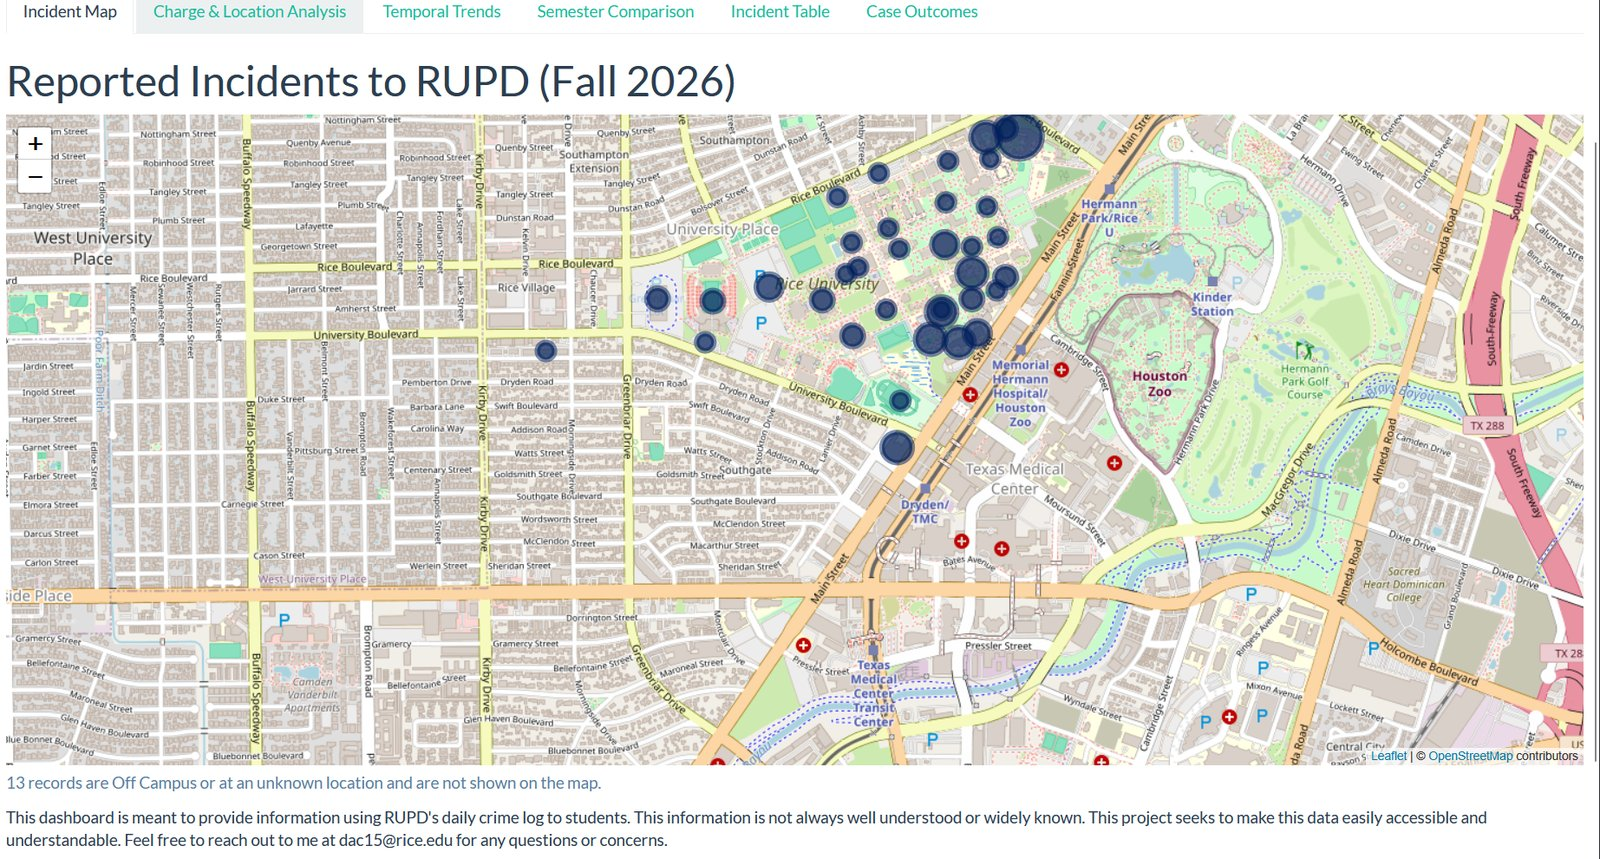
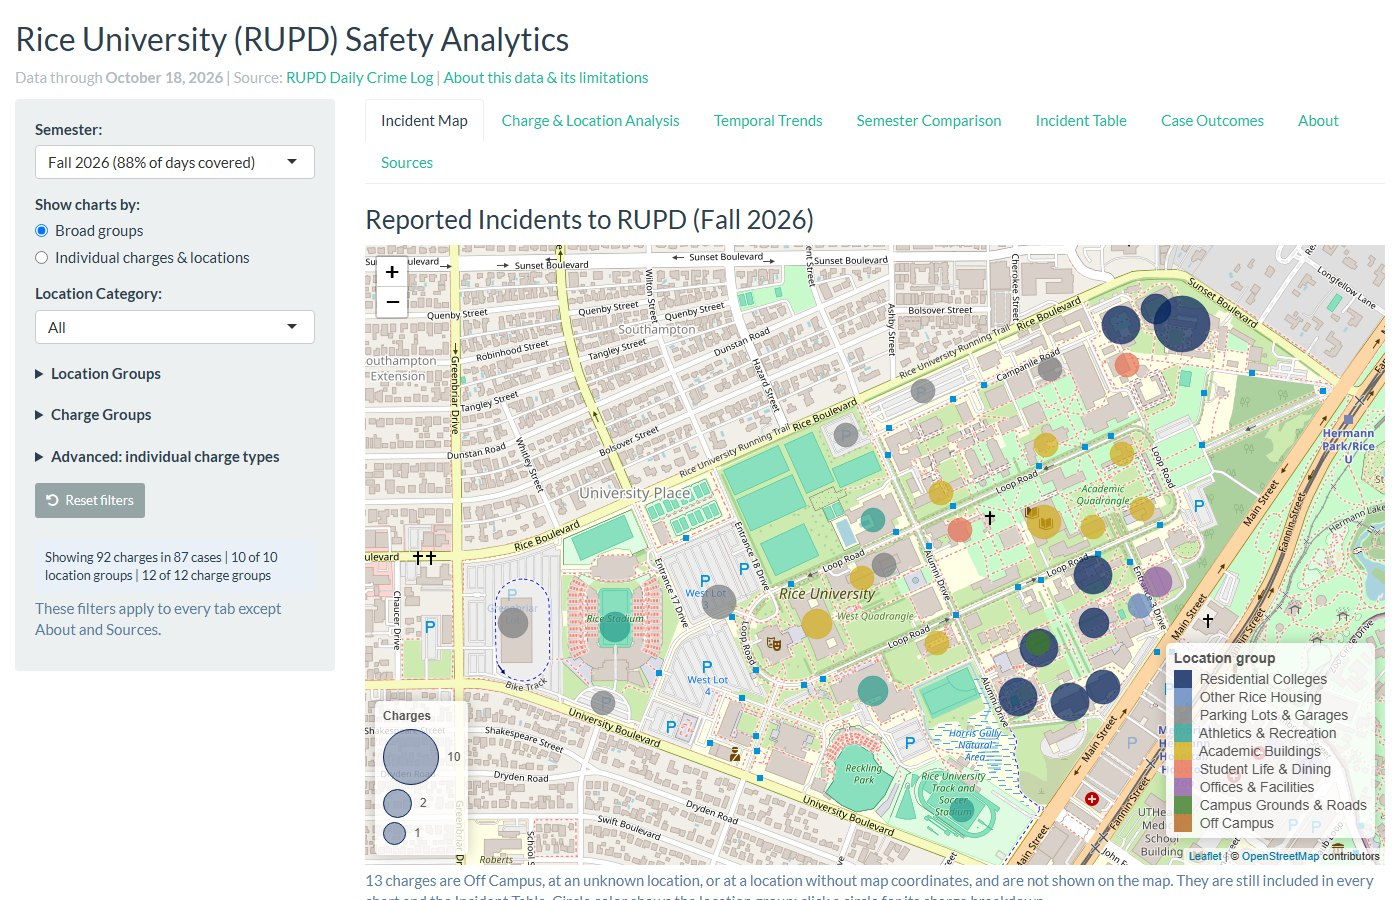
Fix review issues and make RUPD embed click-to-load
- Remove links to the now-private Spurs² team repo
- Use 1956-2025 consistently on the MVP study and fix its http link
- Add Stan, PyTorch, scikit-learn, Pydantic and Bayesian hierarchical
  models to Skills
- Give every project page a "Projects" back link; add section links to
  the MVP page
- Load the RUPD dashboard on click like the CFB page, with a shared
  embed.js and a fresh screenshot of the current app
- Update the Orientation Week line to three summers

diff --git a/nba-mvp.html b/nba-mvp.html
@@ -22,9 +22,10 @@
         <div class="main-container nav-inner">
             <span class="site-title">NBA MVP Synthesis</span>
             <ul class="nav-links">
-                <li><a href="index.html">&larr; Portfolio</a></li>
-                <li><a href="projects.html">Projects</a></li>
-                <li><a href="index.html#contact">Contact</a></li>
+                <li><a href="projects.html">&larr; Projects</a></li>
+                <li><a href="#context">Context</a></li>
+                <li><a href="#synthesis">Modeling</a></li>
+                <li><a href="#formula">Conclusion</a></li>
             </ul>
         </div>
     </nav>
@@ -50,7 +51,7 @@
                 </p>
         </section>
 
-        <header class="stats-divider">
+        <header class="stats-divider" id="context">
             <div class="main-container">
                 <h3>Historical Context & The Evolution of Greatness</h3>
             </div>
@@ -63,7 +64,7 @@
 
             <div class="viz">
                 <img loading="lazy" decoding="async" src="docs/assets/gapmvp.png" alt="MVP Voting Shares Against Awards Won">
-                <p class="caption">Career MVP Award Shares (Gray) vs. Actual MVPs Won (Gold) | Data: 1955-2025</p>
+                <p class="caption">Career MVP Award Shares (Gray) vs. Actual MVPs Won (Gold) | Data: 1956-2025</p>
             </div>
 
             <div class="text-explanation">
@@ -107,7 +108,7 @@
             </div>
         </section>
 
-        <header class="stats-divider">
+        <header class="stats-divider" id="synthesis">
             <div class="main-container">
                 <h3>The Synthesis: Predictive Modeling & Benchmarking</h3>
             </div>
@@ -126,7 +127,7 @@
         </header>
         
         <p>
-            This scatterplot maps all MVP Winners against the <strong>Historical MVP Baseline</strong>. The intersecting lines here represent the mean performance of every MVP winner from 1955 to 2025. 
+            This scatterplot maps all MVP Winners against the <strong>Historical MVP Baseline</strong>. The intersecting lines here represent the mean performance of every MVP winner from 1956 to 2025. 
         </p>
         <p>
             <strong>The Winner's Circle:</strong> The top-right quadrant represents players who are currently outperforming the "Average MVP" in both scoring volume and efficiency. This Elite-of-the-Elite zone is where the 2025-26 MVP is likely to emerge.
@@ -200,7 +201,7 @@
             </div>
         </section>
 
-        <header class="stats-divider">
+        <header class="stats-divider" id="formula">
     <div class="main-container">
         <h3>Final Synthesis: The 2026 MVP Formula</h3>
     </div>
@@ -246,7 +247,7 @@
             </div>
             <div class="text-explanation bio-text">
                 <p><strong>David Coronado</strong> is a Statistics and Sport Analytics student at Rice University with a special interest in sports analytics and performance optimization. </p>
-                <p>He maintains this ongoing project exploring data synthesizing and predictive modeling. You can follow <a href="http://github.com/davcrown">this study and others on his profile page</a>, or see his full <a href="index.html">portfolio</a>.</p>
+                <p>He maintains this ongoing project exploring data synthesizing and predictive modeling. You can follow <a href="https://github.com/davcrown">this study and others on his profile page</a>, or see his full <a href="index.html">portfolio</a>.</p>
             </div>
         </section>
 

diff --git a/cfb-ratings.html b/cfb-ratings.html
@@ -86,11 +86,11 @@
             <p class="embed-actions">
                 <a href="https://dacrown.shinyapps.io/cfb-bayes-ratings/" target="_blank" rel="noopener">Open full dashboard &#8599;</a>
             </p>
-            <div class="app-frame lazy-embed" id="cfb-embed">
+            <div class="app-frame lazy-embed" id="cfb-embed" data-src="https://dacrown.shinyapps.io/cfb-bayes-ratings/" data-title="CFB Bayesian Ratings dashboard">
                 <div class="embed-preview">
                     <img src="docs/assets/cfb/cfb-rankings.jpg" alt="The Rankings tab of the CFB Bayesian Ratings dashboard, with Georgia ranked first and 90% credible intervals for each team" width="1400" height="900">
                     <div class="embed-overlay">
-                        <button type="button" class="btn btn-accent embed-launch" id="cfb-launch">Launch interactive dashboard</button>
+                        <button type="button" class="btn btn-accent embed-launch">Launch interactive dashboard</button>
                         <a href="https://dacrown.shinyapps.io/cfb-bayes-ratings/" class="btn btn-accent embed-open" target="_blank" rel="noopener">Open full dashboard &#8599;</a>
                     </div>
                 </div>
@@ -194,30 +194,7 @@
         <div class="main-container">&copy; 2026 David Coronado</div>
     </footer>
 
-    <script>
-        // Click-to-load: the screenshot stays until the visitor asks for the live app,
-        // so page views don't wake the shinyapps.io server.
-        (function () {
-            var embed = document.getElementById('cfb-embed');
-            var launch = document.getElementById('cfb-launch');
-            if (!embed || !launch) return;
-            launch.addEventListener('click', function () {
-                var loading = embed.querySelector('.embed-loading');
-                var frame = document.createElement('iframe');
-                frame.src = 'https://dacrown.shinyapps.io/cfb-bayes-ratings/';
-                frame.title = 'CFB Bayesian Ratings dashboard';
-                frame.loading = 'lazy';
-                frame.addEventListener('load', function () {
-                    loading.hidden = true;
-                    embed.classList.add('is-loaded');
-                });
-                embed.querySelector('.embed-preview').hidden = true;
-                loading.hidden = false;
-                embed.classList.add('is-live');
-                embed.appendChild(frame);
-            });
-        })();
-    </script>
+    <script src="embed.js"></script>
 
 </body>
 </html>

diff --git a/rupd-dashboard.html b/rupd-dashboard.html
@@ -22,7 +22,7 @@
         <div class="main-container nav-inner">
             <span class="site-title">RUPD Crime Log Dashboard</span>
             <ul class="nav-links">
-                <li><a href="index.html">&larr; Portfolio</a></li>
+                <li><a href="projects.html">&larr; Projects</a></li>
                 <li><a href="#app">Live App</a></li>
                 <li><a href="#features">Features</a></li>
                 <li><a href="#ethics">Ethics</a></li>
@@ -84,12 +84,21 @@
         </header>
 
         <section class="app-embed">
-            <div class="app-frame">
-                <iframe src="https://dacrown.shinyapps.io/ethicsdashboard/" title="RUPD Crime Log Dashboard" loading="lazy"></iframe>
+            <p class="embed-actions">
+                <a href="https://dacrown.shinyapps.io/ethicsdashboard/" target="_blank" rel="noopener">Open full dashboard &#8599;</a>
+            </p>
+            <div class="app-frame lazy-embed" data-src="https://dacrown.shinyapps.io/ethicsdashboard/" data-title="RUPD Crime Log Dashboard">
+                <div class="embed-preview">
+                    <img src="docs/assets/dashboard.jpg" alt="The Incident Map tab of the RUPD Crime Log Dashboard, with filters and incidents grouped by location" width="1400" height="900">
+                    <div class="embed-overlay">
+                        <button type="button" class="btn btn-accent embed-launch">Launch interactive dashboard</button>
+                        <a href="https://dacrown.shinyapps.io/ethicsdashboard/" class="btn btn-accent embed-open" target="_blank" rel="noopener">Open full dashboard &#8599;</a>
+                    </div>
+                </div>
+                <div class="embed-loading" hidden>Loading dashboard&hellip; the server may take a moment to wake up.</div>
             </div>
             <p class="caption">
-                Hosted on shinyapps.io &mdash; it can take a few seconds to wake up.
-                <a href="https://dacrown.shinyapps.io/ethicsdashboard/" target="_blank" rel="noopener">Open it in a new tab</a> for the full-screen experience.
+                Hosted on shinyapps.io. The app is built for desktop screens, so on a phone it opens in a new tab. On a first visit the server can take a little while to wake up.
             </p>
         </section>
 
@@ -266,6 +275,8 @@
     <footer class="site-footer">
         <div class="main-container">&copy; 2026 David Coronado</div>
     </footer>
+
+    <script src="embed.js"></script>
 
 </body>
 </html>

diff --git a/spurs2-hackathon.html b/spurs2-hackathon.html
@@ -22,7 +22,7 @@
         <div class="main-container nav-inner">
             <span class="site-title">Spurs² Hackathon</span>
             <ul class="nav-links">
-                <li><a href="index.html">&larr; Portfolio</a></li>
+                <li><a href="projects.html">&larr; Projects</a></li>
                 <li><a href="#problem">Problem</a></li>
                 <li><a href="#built">What We Built</a></li>
                 <li><a href="#scoreplay">My Contribution</a></li>
@@ -40,7 +40,7 @@
             </p>
             <div class="hero-actions">
                 <a href="#scoreplay" class="btn btn-accent">My Contribution</a>
-                <a href="https://github.com/jv92admin/spurs2-hackathon" class="btn btn-outline" target="_blank" rel="noopener">View the Code</a>
+                <a href="#built" class="btn btn-outline">How It Works</a>
             </div>
         </div>
         <div class="viz hero-photo">
@@ -246,9 +246,6 @@
                 <li>Image Remediation</li>
                 <li>Rights &amp; Compliance</li>
             </ul>
-            <p class="card-link-row">
-                <a href="https://github.com/jv92admin/spurs2-hackathon" target="_blank" rel="noopener">View the team repository on GitHub &rarr;</a>
-            </p>
         </section>
 
     </main>
@@ -258,8 +255,7 @@
             <h3 class="contact-title">Winning Submission</h3>
             <p>Spurs² Hackathon &middot; UT Austin &middot; ScorePlay &times; TwelveLabs &times; Tottenham Hotspur &times; San Antonio Spurs</p>
             <div class="hero-actions centered">
-                <a href="https://github.com/jv92admin/spurs2-hackathon" class="btn btn-accent" target="_blank" rel="noopener">View the Code</a>
-                <a href="projects.html" class="btn btn-outline">More Projects</a>
+                <a href="projects.html" class="btn btn-accent">More Projects</a>
                 <a href="index.html#contact" class="btn btn-outline">Get in Touch</a>
             </div>
         </div>

diff --git a/about.html b/about.html
@@ -54,7 +54,7 @@
                 To make this goal happen, I am currently at Rice University studying Statistics and Sport Analytics. When I first applied to Rice, I had no idea that the Sport Analytics program was available, so I had applied to join their renowned Computer Science department. However, during Rice's Orientation Week, I was introduced to Dr. Hua Gong and Professor Tom Stallings, who have both been valuable mentors and led me to the Sport Analytics program. With their help, I have been able to work on a variety of projects such as reports for the Rice Women's Basketball Team and data visualizations utilizing NBA data, which are available in the <a href="projects.html">Projects</a> section. I have also tremendously enjoyed my Statistics, Computer Science, and Math courses, which have helped my logical thinking and programming skills.
             </p>
             <p>
-                Outside of my analytics work, I greatly enjoy being an advisor to others. This past summer, I had the pleasure of being an advisor for Orientation Week, which allowed me to connect with new students and help their transition into college. Throughout my work, I hope to be able to help all of those that I encounter.
+                Outside of my analytics work, I greatly enjoy being an advisor to others. For the past three summers, I have had the pleasure of being an advisor for Orientation Week, which has allowed me to connect with new students and help their transition into college. Throughout my work, I hope to be able to help all of those that I encounter.
             </p>
             <p>
                 Please reach out via <a href="mailto:dac15@rice.edu">email</a> or <a href="https://www.linkedin.com/in/david-coronado-189642289" target="_blank" rel="noopener">LinkedIn</a> if you would like to chat. I am always looking to connect with peers or professionals!

diff --git a/embed.js b/embed.js
@@ -1,0 +1,21 @@
+// Click-to-load dashboard embeds: each .lazy-embed shows a screenshot until the visitor
+// clicks its launch button, so page views don't wake the shinyapps.io server.
+document.querySelectorAll('.lazy-embed').forEach(function (embed) {
+    var launch = embed.querySelector('.embed-launch');
+    if (!launch) return;
+    launch.addEventListener('click', function () {
+        var loading = embed.querySelector('.embed-loading');
+        var frame = document.createElement('iframe');
+        frame.src = embed.dataset.src;
+        frame.title = embed.dataset.title;
+        frame.loading = 'lazy';
+        frame.addEventListener('load', function () {
+            loading.hidden = true;
+            embed.classList.add('is-loaded');
+        });
+        embed.querySelector('.embed-preview').hidden = true;
+        loading.hidden = false;
+        embed.classList.add('is-live');
+        embed.appendChild(frame);
+    });
+});

diff --git a/skills.html b/skills.html
@@ -51,9 +51,14 @@
                     <li>Python</li>
                     <li>SQL</li>
                     <li>SAS</li>
+                    <li>Stan</li>
+                    <li>PyTorch</li>
+                    <li>scikit-learn</li>
+                    <li>Pydantic</li>
                     <li>Statistical Modeling</li>
                     <li>Machine Learning</li>
                     <li>Bayesian Inference</li>
+                    <li>Bayesian Hierarchical Models</li>
                     <li>Time Series Forecasting</li>
                     <li>Probability Theory</li>
                     <li>Decision Analysis</li>
